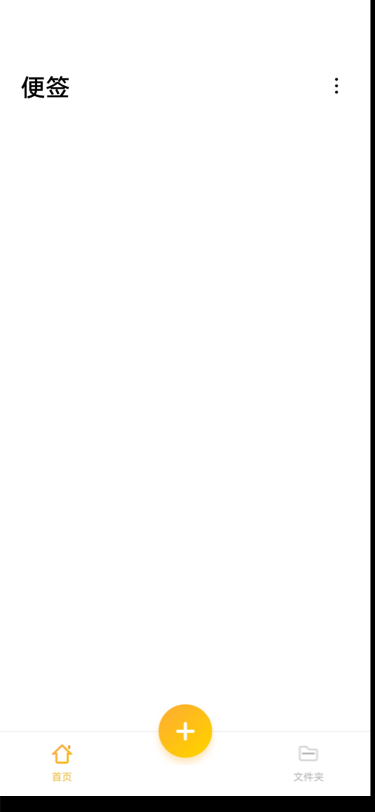
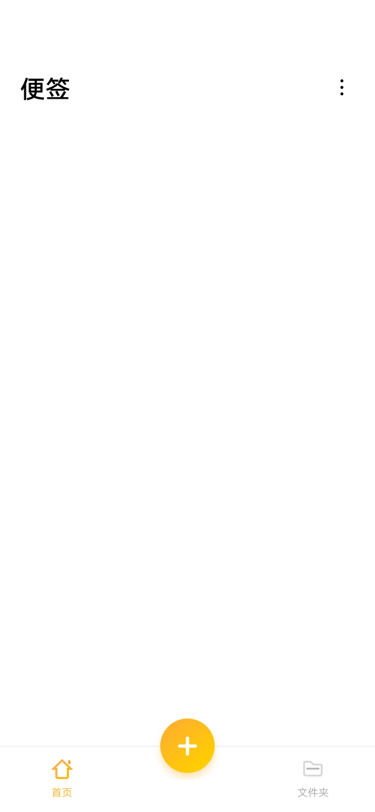
fix deskQuit

Changed region(s): [[0.0, 0.0, 1.0, 1.0], [0.0587, 0.0924, 0.2053, 0.1232], [0.88, 0.0924, 0.9387, 0.1232]]

diff --git a/src/Component/SetWindowQuit.js b/src/Component/SetWindowQuit.js
@@ -5,7 +5,7 @@ import NoteAndroid from "../Img/NoteAndroid.png";
 import NoteBg from "../Img/NoteBg.png";
 import Background from "../Img/NoteAndroidDesk.png";
 import "../Component/Component.css";
-
+import Close from "../Icon/Close.png";
 /* const AppWindowStyle = {
   width: '100vw',
   height:'100vh',
@@ -75,7 +75,7 @@ const UPBoxVariants = {
     zIndex: 1,
   },
   UPanimationTwo: {
-    y: 60,
+    y: 10,
     zIndex: 1,
   },
 };
@@ -96,7 +96,7 @@ const SetBtnStyle = {
 
 export default function SetWindow() {
   const y = useMotionValue(0);
-  const scale = useTransform(y, [0, -150], [1, 0.3]);
+  const scale = useTransform(y, [0, -150], [1.02, 0.3]);
 
   const [AppWindowAnimation, cycleAnimation] = useCycle(
     "animationOne",
@@ -122,10 +122,10 @@ export default function SetWindow() {
   const AppWindowVariants = {
     animationOne: {
       backgroundImage: `url(${NoteAndroid})`,
-      width: "100vw",
-      height: "100vh",
-      scale: 1.01,
-      backgroundSize: "100vw 100vh",
+      width: 375,
+      height: 812,
+      scale: 1.02,
+      backgroundSize: "375px 812px",
       y: 0,
     },
     animationTwo: {
@@ -172,145 +172,170 @@ export default function SetWindow() {
   return (
     <div>
       <div
-        className="All"
+        className="SetWindowAll"
         style={{
           zindex: 10,
-          height: 812 - 56,
+          height: "100vh",
           width: "100vw",
           overflow: "hidden",
           display: "flex",
+          top: 0,
+          position: "relative",
           justifyContent: "center",
         }}
       >
-        <div>
-          <motion.div
-            className="SetWindow"
-            style={UPBoxStyle}
-            variants={UPBoxVariants}
-            animate={UPBoxAnimation}
-          >
-            <div className="SetText">
-              <div
-                className="DefaultSet"
-                style={{
-                  width: 220,
-                  height: "auto",
-                  fontSize: 14,
-                  marginTop: 20,
-                }}
-              >
-                <h6>Damping 阻尼系数设置</h6>
-                <p
-                  style={{
-                    color: "#666",
-                    marginBottom: 6,
-                  }}
-                >
-                  (默认值为20，如果设置为0，弹力将无限振荡)
-                </p>
-                <input
-                  className="in"
-                  type="text"
-                  value={Damping}
-                  onChange={HandleDampingChange}
-                  style={{
-                    margin: 0,
-                    height: 30,
-                    width: 220,
-                    borderRadius: 6,
-                  }}
-                />
-              </div>
-
-              <div
-                className="DefaultSet"
-                style={{
-                  width: 220,
-                  height: "auto",
-                  fontSize: 14,
-                  marginTop: 20,
-                }}
-              >
-                <h6>Stiffness 刚度设置</h6>
-                <p
-                  style={{
-                    color: "#666",
-                    marginBottom: 6,
-                  }}
-                >
-                  (默认值为100，更高的值将使运动更突然)
-                </p>
-                <input
-                  className="in"
-                  type="text"
-                  value={Stiffness}
-                  onChange={HandleStiffnessChange}
-                  style={{
-                    margin: 0,
-                    height: 30,
-                    width: 220,
-                    borderRadius: 6,
-                  }}
-                />
-              </div>
-            </div>
-          </motion.div>
-        </div>
-
         <div
           className="SetBtn"
           onClick={() => UPcycleAnimation()}
           style={SetBtnStyle}
-        ></div>
-
-        <motion.div
-          className="AppWindow"
-          //whileTap={{ scale: 0.8 }}
+        />
+        <div
+          className="Mask"
           style={{
-            width: "100vw",
-            height: "100vh",
-            x: 0,
-            top: 0,
-            boxShadow: "0px 0px 4px 0px rgba(0, 0, 0, 0.05)",
-            color: "#415fff",
-            opacity: 1,
-            backgroundColor: "#FFFFFF",
-            borderRadius: 14,
-            position: "absolute",
-            zIndex: 0,
+            display: "flex",
+            justifyContent: "center",
+            width: 375,
+            height: 812,
             overflow: "hidden",
-            backgroundRepeat: "no-repeat",
-            y,
-            scale,
-          }}
-          variants={AppWindowVariants}
-          animate={AppWindowAnimation}
-          transition={style}
-          drag={DragBox}
-          dragConstraints={{ left: 0, right: 0, top: 0, bottom: -0 }}
-          dragElastic={0.25}
-          onClick={() =>
-            cycleAnimation() &
-            CycleNoteBgAnimation() &
-            CycleImgBgAnimation() &
-            cycleDrag()
-          }
-          //  onClick={() => cycleAnimation() & CycleNoteBgAnimation() & CycleImgBgAnimation() &cycleDrag()}
-          //  onDragStart ={ }
-          onDragEnd={function (event, info) {
-            if (info.point.y < 300) {
-              FourToOne();
-            }
+            position: "absolute",
           }}
         >
+          <div>
+            <motion.div
+              className="SetWindow"
+              style={UPBoxStyle}
+              variants={UPBoxVariants}
+              animate={UPBoxAnimation}
+            >
+              <motion.img
+                className="CloseBtn"
+                onClick={() => UPcycleAnimation()}
+                src={Close}
+                alt=""
+                style={{
+                  width: 20,
+                  height: 20,
+                  right: 20,
+                  top: 20,
+                  position: "absolute",
+                }}
+              />
+              <div className="SetText">
+                <div
+                  className="DefaultSet"
+                  style={{
+                    width: 220,
+                    height: "auto",
+                    fontSize: 14,
+                    marginTop: 20,
+                  }}
+                >
+                  <h6>Damping 阻尼系数设置</h6>
+                  <p
+                    style={{
+                      color: "#666",
+                      marginBottom: 6,
+                    }}
+                  >
+                    (默认值为20，如果设置为0，弹力将无限振荡)
+                  </p>
+                  <input
+                    className="in"
+                    type="text"
+                    value={Damping}
+                    onChange={HandleDampingChange}
+                    style={{
+                      margin: 0,
+                      height: 30,
+                      width: 220,
+                      borderRadius: 6,
+                    }}
+                  />
+                </div>
+
+                <div
+                  className="DefaultSet"
+                  style={{
+                    width: 220,
+                    height: "auto",
+                    fontSize: 14,
+                    marginTop: 20,
+                  }}
+                >
+                  <h6>Stiffness 刚度设置</h6>
+                  <p
+                    style={{
+                      color: "#666",
+                      marginBottom: 6,
+                    }}
+                  >
+                    (默认值为100，更高的值将使运动更突然)
+                  </p>
+                  <input
+                    className="in"
+                    type="text"
+                    value={Stiffness}
+                    onChange={HandleStiffnessChange}
+                    style={{
+                      margin: 0,
+                      height: 30,
+                      width: 220,
+                      borderRadius: 6,
+                    }}
+                  />
+                </div>
+              </div>
+            </motion.div>
+          </div>
+
           <motion.div
-            variants={NoteBgVariants}
-            animate={NoteBgAnimation}
+            className="AppWindow"
+            //whileTap={{ scale: 0.8 }}
+            style={{
+              width: 375,
+              height: 812,
+              x: 0,
+              top: 0,
+              boxShadow: "0px 0px 4px 0px rgba(0, 0, 0, 0.05)",
+              color: "#415fff",
+              opacity: 1,
+              backgroundColor: "#FFFFFF",
+              borderRadius: 14,
+              position: "absolute",
+              zIndex: 0,
+              overflow: "hidden",
+              backgroundRepeat: "no-repeat",
+              y,
+              scale,
+            }}
+            variants={AppWindowVariants}
+            animate={AppWindowAnimation}
             transition={style}
-            style={NoteBgStyle}
-          />
-        </motion.div>
-        {/*       <div
+            drag={DragBox}
+            dragConstraints={{ left: 0, right: 0, top: 0, bottom: -0 }}
+            dragElastic={0.25}
+            onClick={() =>
+              cycleAnimation() &
+              CycleNoteBgAnimation() &
+              CycleImgBgAnimation() &
+              cycleDrag()
+            }
+            //  onClick={() => cycleAnimation() & CycleNoteBgAnimation() & CycleImgBgAnimation() &cycleDrag()}
+            //  onDragStart ={ }
+            onDragEnd={function (event, info) {
+              if (info.point.y < 300) {
+                FourToOne();
+              }
+            }}
+          >
+            <motion.div
+              variants={NoteBgVariants}
+              animate={NoteBgAnimation}
+              transition={style}
+              style={NoteBgStyle}
+            />
+          </motion.div>
+          {/*       <div
           style={{
 
           width: '100vw',
@@ -318,25 +343,26 @@ export default function SetWindow() {
           overflow: 'hidden'
         }}
         > */}
-        <motion.div
-          className="BgImg"
-          // whileTap={{ scale: 0.8}}
-          variants={ImgBgVariants}
-          animate={ImgBgAnimation}
-          transition={{ duration: 0.5 }}
-          //  transition={{type:'spring', duration: 20 }}
-          style={{
-            backgroundImage: `url(${Background})`,
-            width: 375,
-            height: 812,
-            top: 0,
-            opacity: 1,
-            zIndex: "-1",
-            scale: 1.05,
-            position: "absolute",
-          }}
-        />
-        {/*      </div> */}
+          <motion.div
+            className="BgImg"
+            // whileTap={{ scale: 0.8}}
+            variants={ImgBgVariants}
+            animate={ImgBgAnimation}
+            transition={{ duration: 0.5 }}
+            //  transition={{type:'spring', duration: 20 }}
+            style={{
+              backgroundImage: `url(${Background})`,
+              width: 375,
+              height: 812,
+              top: 0,
+              opacity: 1,
+              zIndex: "-1",
+              scale: 1.05,
+              position: "absolute",
+            }}
+          />
+          {/*      </div> */}
+        </div>
       </div>
     </div>
   );

diff --git a/src/DeskFold/DeskQuit.js b/src/DeskFold/DeskQuit.js
@@ -164,7 +164,7 @@ const DeskQuit = () => {
         style={{
           top: 0,
           display: "flex",
-          height: "100%",
+          position: "absolute",
           justifyContent: "center",
         }}
       >

diff --git a/src/DeskFold/DeskOpen.js b/src/DeskFold/DeskOpen.js
@@ -164,9 +164,7 @@ const DeskOpen = () => {
         style={{
           top: 0,
           display: "flex",
-
           position: "absolute",
-
           justifyContent: "center",
         }}
       >
